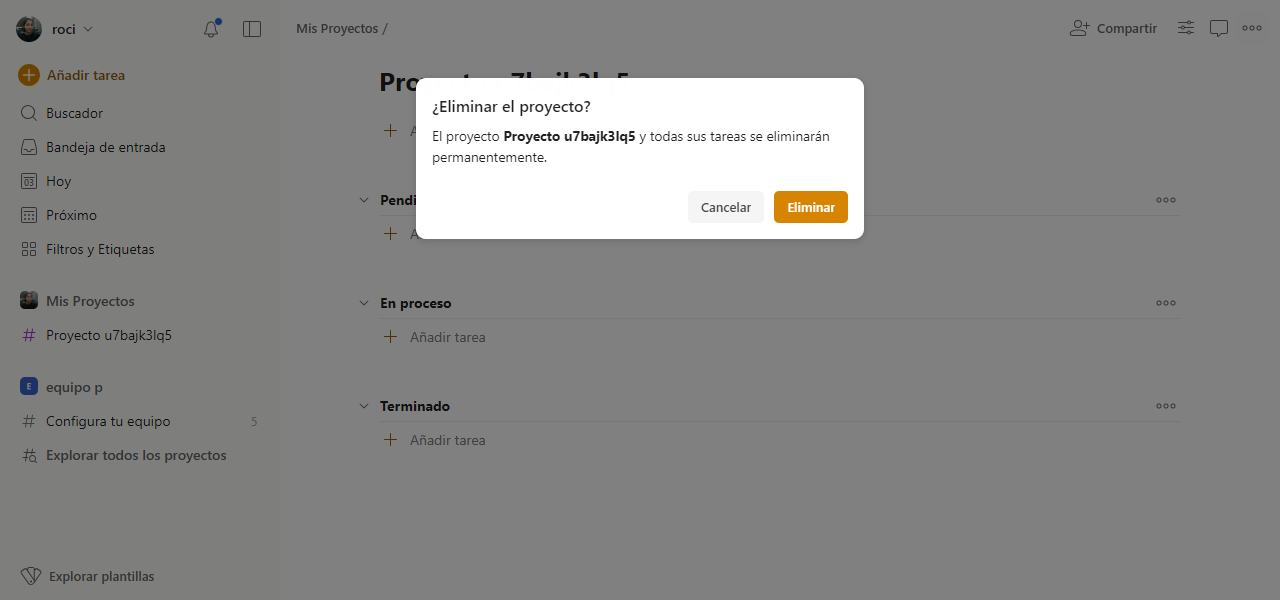
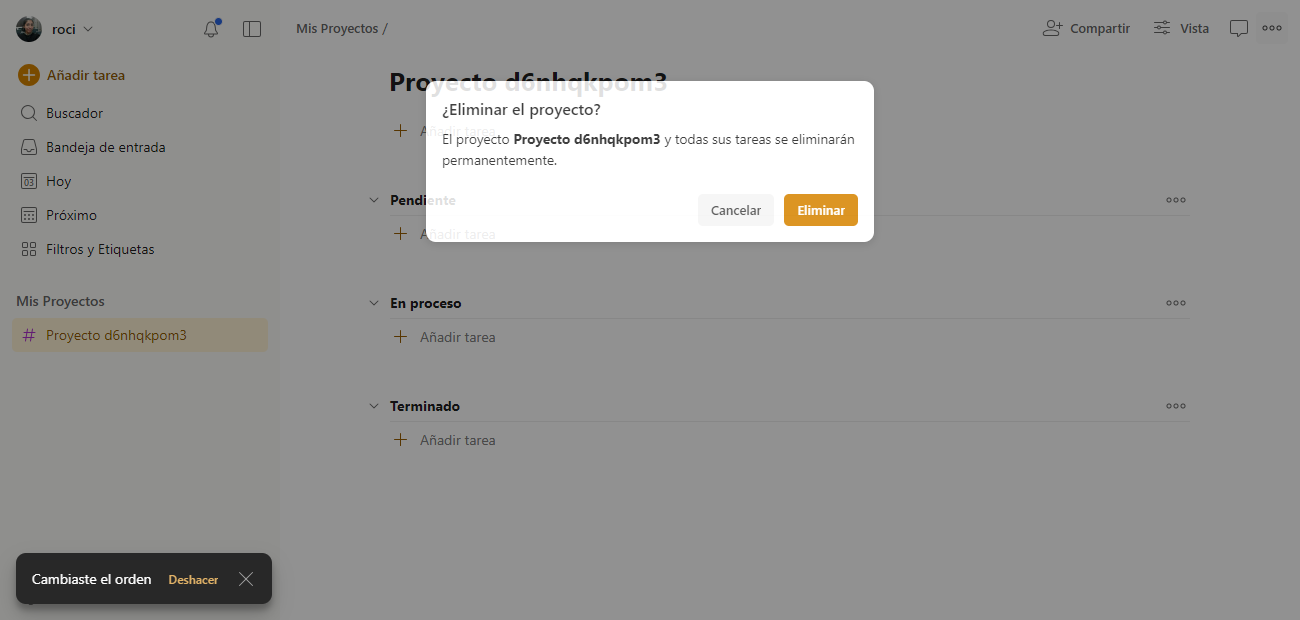
cambios en las pruebas

diff --git a/tests/test_tareas.py b/tests/test_tareas.py
@@ -2,7 +2,9 @@ import pytest
 from core.webdriver import WebDriver
 from main.ui.login.login_page import LoginPage
 from main.ui.tareas.page import TaskPage
-from main.ui.tareas.variables import GeneradorDatos
+from main.ui.proyectos.page import ProyectPage
+from main.ui.tareas.variables import GeneradorDatosTareas
+from main.ui.proyectos.variables import GeneradorDatos
 from dotenv import load_dotenv
 import os
 
@@ -11,9 +13,11 @@ load_dotenv()
 TODOIST_EMAIL = os.getenv("TODOIST_EMAIL")
 TODOIST_PASSWORD = os.getenv("TODOIST_PASSWORD")
 #variables globales
-generador = GeneradorDatos()
+generador = GeneradorDatosTareas()
 nombre = generador.generar_nombre_tarea()
 desc = generador.generar_descripcion_tarea()
+generador = GeneradorDatos()
+titulo_proyecto = generador.generar_titulo()
 
 @pytest.fixture
 def setup_browser():
@@ -24,6 +28,7 @@ def setup_browser():
     login_page.wait_for_dashboard()
     yield driver
     driver.close_browser()
+
 
 def test_crear_tarea_en_bandeja_entrada(setup_browser):
     driver = setup_browser
@@ -37,34 +42,56 @@ def test_crear_tarea_con_fecha_venci(setup_browser):
     task_page = TaskPage(driver.page)
     task_page.agregar_tarea_con_fvenc(nombre, desc)
     task_page.eliminar()
+
+
 # T-003: Crear una tarea en un proyecto
 def test_crear_tarea_en_proyecto(setup_browser):
     driver = setup_browser
+    #crear_proyecto primero
+    proyect_page = ProyectPage(driver.page)
+    proyect_page.agregar_proyecto(titulo_proyecto)
+    #agregar tarea en proyecto
     task_page = TaskPage(driver.page)
     task_page.agregar_tarea_en_proyecto(nombre, desc)
     task_page.eliminar()
+    proyect_page.eliminar()
+# @pytest.mark.webtest
 # T-004: Crear una tarea desde un proyecto
 def test_crear_tarea_desde_proyecto(setup_browser):
     driver = setup_browser
     task_page = TaskPage(driver.page)
+    proyect_page = ProyectPage(driver.page)
+    proyect_page.agregar_proyecto(titulo_proyecto)
+    # proyect_page.agregar_seccion()
     task_page.agregar_tarea_desde_proyecto(nombre, desc)
     task_page.eliminar()
+    proyect_page.eliminar()
+
+@pytest.mark.webtest
 # T-006: Mover tarea entre secciones
 def test_mover_tarea_entre_secciones(setup_browser):
     driver = setup_browser
     task_page = TaskPage(driver.page)
+    proyect_page = ProyectPage(driver.page)
+    proyect_page.agregar_proyecto(titulo_proyecto)
+    proyect_page.agregar_seccion()
     task_page.mover_tarea(nombre, desc)
     task_page.eliminar()
+    proyect_page.eliminar()
+
+
 # T-007: Actualizar información de tarea en bandeja en entrada
 def test_actualizar_info_tarea(setup_browser):
     driver = setup_browser
     task_page = TaskPage(driver.page)
     task_page.actualizar_info(nombre, desc)
     task_page.eliminar()
+
 # T-008: Eliminar tarea de bandeja de entrada
 def test_eliminar_tarea_bandeja(setup_browser):
     driver = setup_browser
     task_page = TaskPage(driver.page)
+    task_page.agregar_tarea_con_fvenc(nombre, desc)
     task_page.eliminar()
 
 # T-009: Añadir sub tarea a tarea
@@ -83,6 +110,7 @@ def test_agregar_tarea_subtarea(setup_browser):
     task_page.agregar_subtarea(1)
     task_page.agregar_subtarea_nivel2(2)
     task_page.eliminar()
+
 # T-011: Añadir 4 niveles de subtarea en una tarea
 def test_agregar_cuatro_niveles_subtarea(setup_browser):
     driver = setup_browser
@@ -90,7 +118,8 @@ def test_agregar_cuatro_niveles_subtarea(setup_browser):
     task_page.agregar_tarea_bandeja(nombre, desc)
     task_page.agregar_tareas_niveles( 4)
     task_page.eliminar()
-# T-012: Mover subtarea a otra sección
+
+# T-012: Mover subtarea a otra sección inbox
 def test_mover_subtarea_a_otra_secciones(setup_browser):
     driver = setup_browser
     task_page = TaskPage(driver.page)
@@ -98,6 +127,9 @@ def test_mover_subtarea_a_otra_secciones(setup_browser):
     task_page.agregar_subtarea(1)
     task_page.mover_subtarea_a_seccion()
     task_page.eliminar()
+
+
+@pytest.mark.xfail
 #T-013: Se permite crear una subtarea nivel 5 en otro nivel
 def test_agregar_subtarea_n5(setup_browser):
     driver = setup_browser

diff --git a/main/ui/tareas/page.py b/main/ui/tareas/page.py
@@ -70,6 +70,7 @@ class TaskPage:
        
         
     def agregar_tarea_en_proyecto(self, nombre:str, desc:str):
+        self.page.goto("https://app.todoist.com/app/today")
         self.elements.get_add_tarea_button().click()
         logger.info("abrir form agregar tarea, introducir datos")
         self.agregar_tarea(nombre, desc)
@@ -101,17 +102,17 @@ class TaskPage:
         self.agregar_tarea(nombre, desc)
         self.agregar_fecha()
         self.elements.get_submit_button().click()
-        logger.info("tarea añadida a seccion")
-        logger.info("abrir menu tarea y mover tarea")
+        logger.info("tarea añadida a seccion")       
         self.elements.get_cancelar_agregar_tarea().click()
         self.page.hover("li.task_list_item")
+        logger.info("abrir menu tarea y mover")
         self.elements.get_abrir_menu_tarea().click()
         self.elements.get_mover_tarea().click()
+        logger.info("elegir seccion")
         self.elements.get_selec_seccion_proy().click()
-        self.elements.get_msj_alerta_mover_tarea()
-        self.page.screenshot(path='mover_tarea.png')
-        self.page.wait_for_timeout(1000)
-        logger.info("la tarea se movio de seccion: pendiente a en proceso")
+        self.elements.get_msj_alerta_mover_tarea() #captura imagen
+        self.page.screenshot(path='utils/img/mover_tarea.png')
+        logger.info("la tarea se movio a seccion En proceso")
         
     
     def actualizar_info(self, nombre, desc):
@@ -235,14 +236,19 @@ class TaskPage:
         logger.info("mover subtarea nivel 2 a seccion En proceso")
         self.elements.get_select_tarea().click()
         self.page.hover("li.task_list_item.task_list_item--project_hidden")
-        logger.info('p aqui')
         self.elements.get_abrir_menu_sub_tarea().click()
         self.elements.get_mover_tarea().click()
-        self.elements.get_selec_seccion_proy().click()
+        self.elements.get_selec_seccion_inbox().click()
         self.elements.get_msj_alerta_mover_tarea()
         self.page.screenshot(path='utils/img/mover_subtarea.png')
         self.page.wait_for_timeout(1000)
         logger.info("la subtarea se movio a seccion como tarea")
         self.elements.get_cerrar_tarea().click()
         self.eliminar()
-        self.elements.get_select_proyecto_1().click()
+        # self.elements.get_select_proyecto_1().click()
+        self.page.goto('https://app.todoist.com/app/inbox')
+        self.page.wait_for_timeout(500)
+        self.page.screenshot(path='utils/img/subtarea_se_movio_sec.png')
+        # self.eliminar()
+    
+    

diff --git a/main/ui/tareas/selectors.py b/main/ui/tareas/selectors.py
@@ -22,14 +22,15 @@ class TareasPageSelectors:
     MENU_TAREA='button[aria-label="Más acciones"]'
     MENU_SUB_TAREA='#task-detail-subtasks-panel button[data-testid="more_menu"]'
     MOVER_TAREA_BUTTON='[aria-label="menú editar tarea"] > div:nth-of-type(7)'
-    SECCION_PENDIENTE_PROY='li[aria-label="Sección: En proceso (Proyecto: Mis cosas)"]'
+    SECCION_PROCESO_PROY='li.dropdown_select__option--highlighted +li +li >div> div:nth-of-type(2)'
+    SECCION_PROCESO_INBOX='li.dropdown_select__option--highlighted + li + li'
     MENSAJE_ALERT_MOVER_TAREA ="text=Cambiaste el orden"
     CANCELAR_BUTTON='button[aria-label="Cancelar"]'
     EDITAR_TAREA_BUTTON='[aria-label="menú editar tarea"] > div:nth-of-type(3)'
     DATE_PROXIMA_SEMANA ='button[data-action-hint="scheduler-suggestion-nextWeek"]'
     ELIMINAR_TAREA_BUTTON='[data-action-hint="task-overflow-menu-delete"]'
     MENSAJE_ALERT_ELIMINAR_TAREA='text=¿Eliminar la tarea?'
-    BUTON_ELIMINAR='footer > div > button:nth-of-type(2)'
+    BUTON_ELIMINAR='.focus-marker-enabled-within button:nth-of-type(2)'
     TAREA='li.task_list_item>div' #seleccionar tarea de today
     ADD_SUBTAREA='text=Añadir subtarea'
     CERRAR_TAREA_BUTTON='button[aria-label="Cerrar tarea"]'

diff --git a/main/ui/tareas/elements.py b/main/ui/tareas/elements.py
@@ -76,7 +76,10 @@ class TareasPageElements:
         return self.page.locator(self.selectors.MOVER_TAREA_BUTTON)
     
     def get_selec_seccion_proy(self):
-        return self.page.locator(self.selectors.SECCION_PENDIENTE_PROY)
+        return self.page.locator(self.selectors.SECCION_PROCESO_PROY)
+    
+    def get_selec_seccion_inbox(self):
+        return self.page.locator(self.selectors.SECCION_PROCESO_INBOX)
     
     def get_msj_alerta_mover_tarea(self):
         return self.page.locator(self.selectors.MENSAJE_ALERT_MOVER_TAREA)
@@ -116,3 +119,10 @@ class TareasPageElements:
     
     def get_retroceder_nivel_subtarea(self):
         return self.page.locator(self.selectors.SUBTAREA_BREARCUMB)
+    
+    def get_menu_agregar_seccion(self):
+        return self.page.locator(self.selectors.MENU_AGREGAR_SECCION)
+    def get_campo_seccion(self):
+        return self.page.locator(self.selectors.CAMPO_INPUT_SECCION)
+    def get_agregar_seccion_submit(self):
+        return self.page.locator(self.selectors.AGREGAR_SECCION_BUTTON_SUBMIT)

diff --git a/tests/test_proyectos.py b/tests/test_proyectos.py
@@ -43,7 +43,6 @@ def test_agregar_proyecto_por_plantilla(setup_browser):
     proyect_page.agregar_proyecto_plantilla()
     proyect_page.eliminar()
 
-@pytest.mark.webtest
 # P-003: Agregar secciones en un proyecto 
 def test_agregar_secciones_en_proyecto(setup_browser):
     driver = setup_browser
@@ -64,7 +63,7 @@ def test_agregar_proyecto_como_plantilla(setup_browser):
     proyect_page.crear_platilla(desc_plantilla)
     proyect_page.eliminar()
 
-
+@pytest.mark.webtest
 # P-005: Agregar proyecto simple a favoritos
 def test_agregar_p_simple_a_favoritos(setup_browser):
     driver = setup_browser

diff --git a/main/ui/tareas/variables.py b/main/ui/tareas/variables.py
@@ -1,7 +1,7 @@
 import random
 import string
 
-class GeneradorDatos:
+class GeneradorDatosTareas:
     def generar_nombre_tarea(self):
         texto = ''.join(random.choices(string.ascii_lowercase + string.digits, k=10))
         nombre = f"{texto}"
